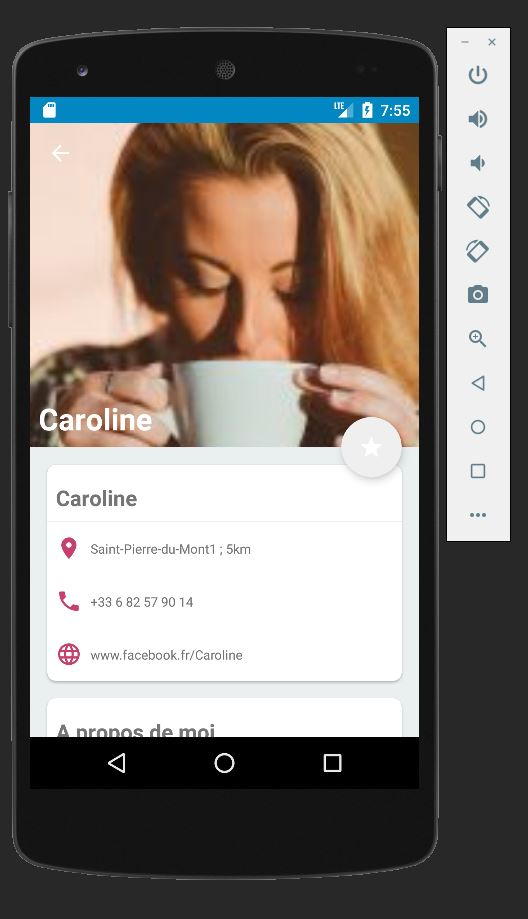
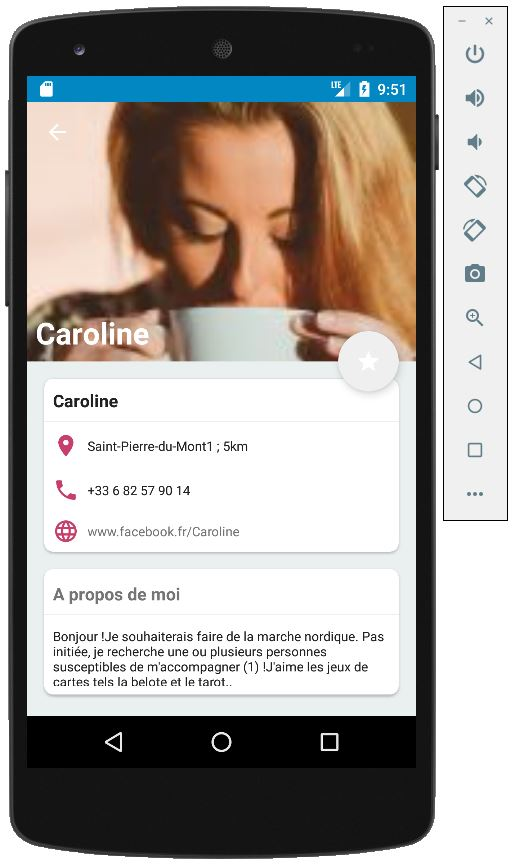
note

diff --git a/Notes.md b/Notes.md
@@ -1,0 +1,28 @@
+# OpenClassrooms
+
+  
+![]()
+## Application **ENTREVOISINS**
+![]()
+### Notes
+
+deux seuls écrans sont indiqués dans la note de cadrage.  
+![](ImagesEntrevoisins/Note01.jpg)
+![](ImagesEntrevoisins/Note02.jpg)
+
+- l'écran de la liste des favoris n'est pas décrit.
+  - Faut il conserver les corbeilles et rendre les voisins supprimable depuis la liste des favoris ou non ?
+  - Faut il remplacer les corbeilles par des étoiles, cliquables pour ôter un voisin de la liste des favoris ou ne rien mettre ?
+  - Le bouton de création d'un voisin doit il aussi être accessible depuis la liste des favoris, si oui, faut il mettre un voisin créé à cet endroit automatiquement dans la liste des favoris ou pas ?
+
+N'ayant pu joindre Claire, j'ai opté pour les étoiles cliquables dans la liste des favoris. Si une création a lieu à partir de la liste des favoris, le nouveau voisin ne sera pas mis d'office dans cette liste.
+*(Un nouveau "voisin" est créé par la propre personne elle même, où elle renseigne ces propres données, mais ne s'ajoute pas dans sa liste de favoris, ceux sont les autres qui la mette ou non dans leur liste de favoris)*.
+*En situation réelle, j'aurais insisté pour avoir une réponse précise, laquelle aurait peut être été : "fait comme tu veux" (ma préférée)*.
+
+- Ajout de 2 fonctionnalités. (mise dans une branche à part : BrancheTestModif).
+  - lors d'un clic sur la corbeille, le voisin est immédiatement supprimé et ces données perdues. Si le clic a été fait par erreur, il n'y a aucun moyen de retour en arrière. J'ai donc inséré une boite de dialogue lors d'un clic sur la corbeille pour valider ou abandonner la suppression.*(ça m'embêterai de perdre à cause d'une mauvaise manipulation le numéro de téléphone de Caroline)*.
+  - Si une erreur est commise lors d'une création, ou un voisin qui changerait de numéro de téléphone par exemple, il n'y a aucune possibilité de modification. J'ai donc rendu les toutes les zones accessibles et modifiables dans l'écran détail du voisin. *(D'un autre côté, rien n'indique dans la note de cadrage que ces zones ne doivent pas être modifiables)*.
+
+
+
+
